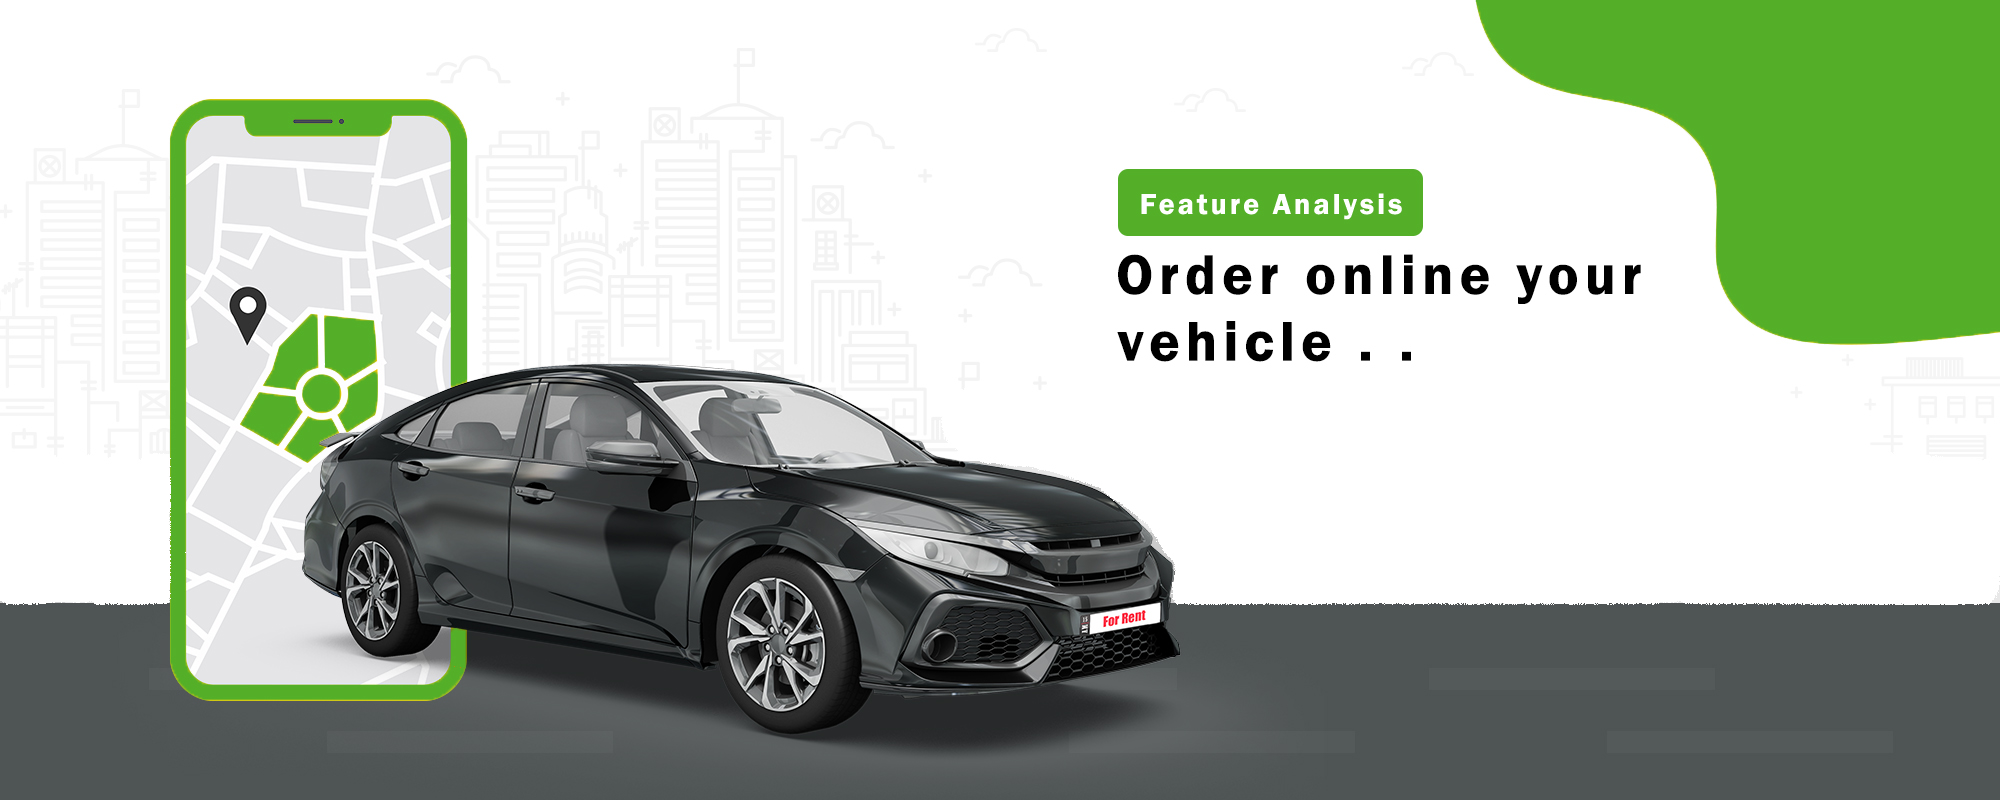
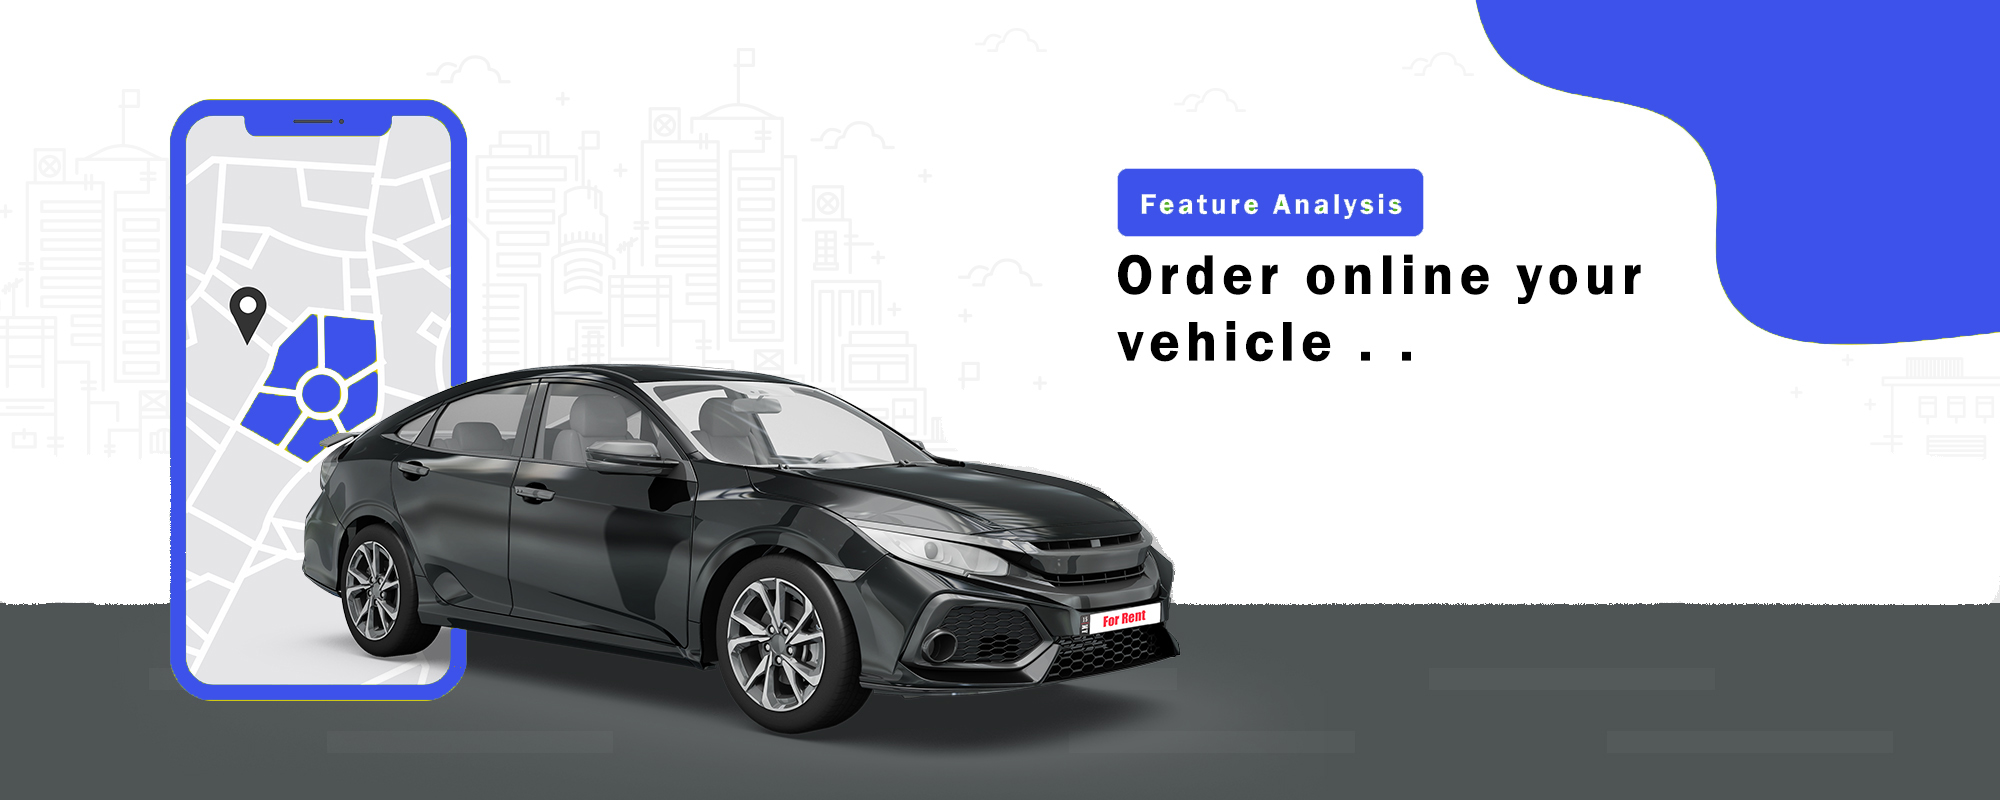
change theme color

diff --git a/src/index.html b/src/index.html
@@ -25,7 +25,7 @@
             bottom: 310px;
             font-size: 50px;
             font-family: 'Cookie', cursive;
-            color: #1e7e34
+            color: blue;
         }
 
         .vl {
@@ -80,7 +80,7 @@
             right: 0px;
             left: 125px;
             bottom: 160px;
-            border-top: 3px solid green;
+            border-top: 3px solid blue;
             height: 10px;
             width: 1150px;
         }
@@ -150,7 +150,7 @@
             right: 0px;
             left: 130px;
             bottom: 140px;
-            border-top: 3px solid green;
+            border-top: 3px solid blue;
             height: 10px;
             width: 1150px;
         }
@@ -520,7 +520,7 @@
                                 </p>
                             </div>
                             <div class="row">
-                                <p style="font-family: 'Cookie', cursive; color: #1e7e34; position:relative; left: 550px; font-size: 33px; top: 5px">
+                                <p style="font-family: 'Cookie', cursive; color: blue; position:relative; left: 550px; font-size: 33px; top: 5px">
                                     Uncommon Car-Rents
                                 </p>
                                 <img src="../src/assets/pictures/car_rent_logo_croped.png"
